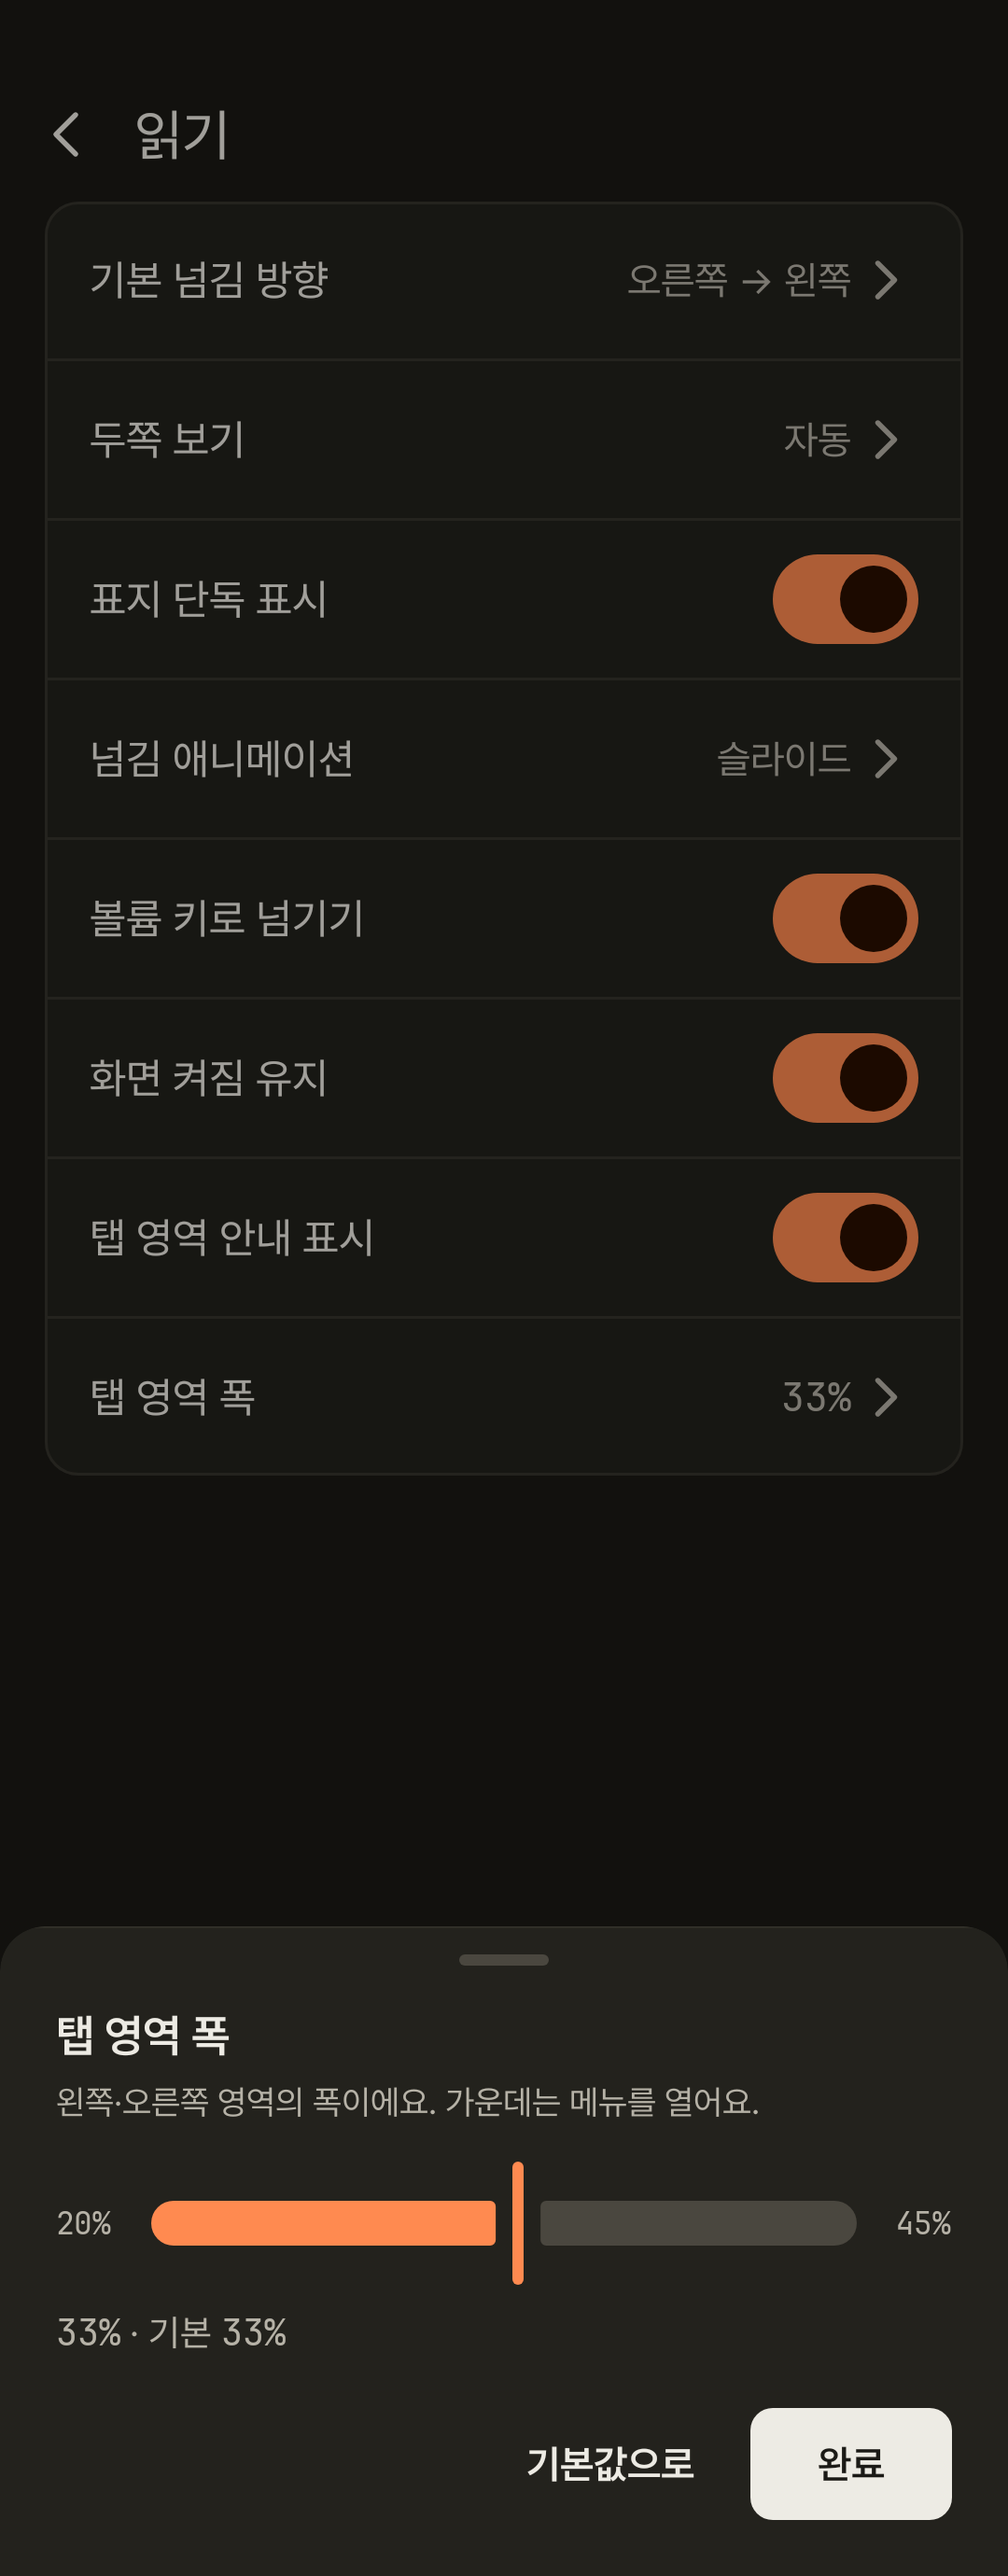
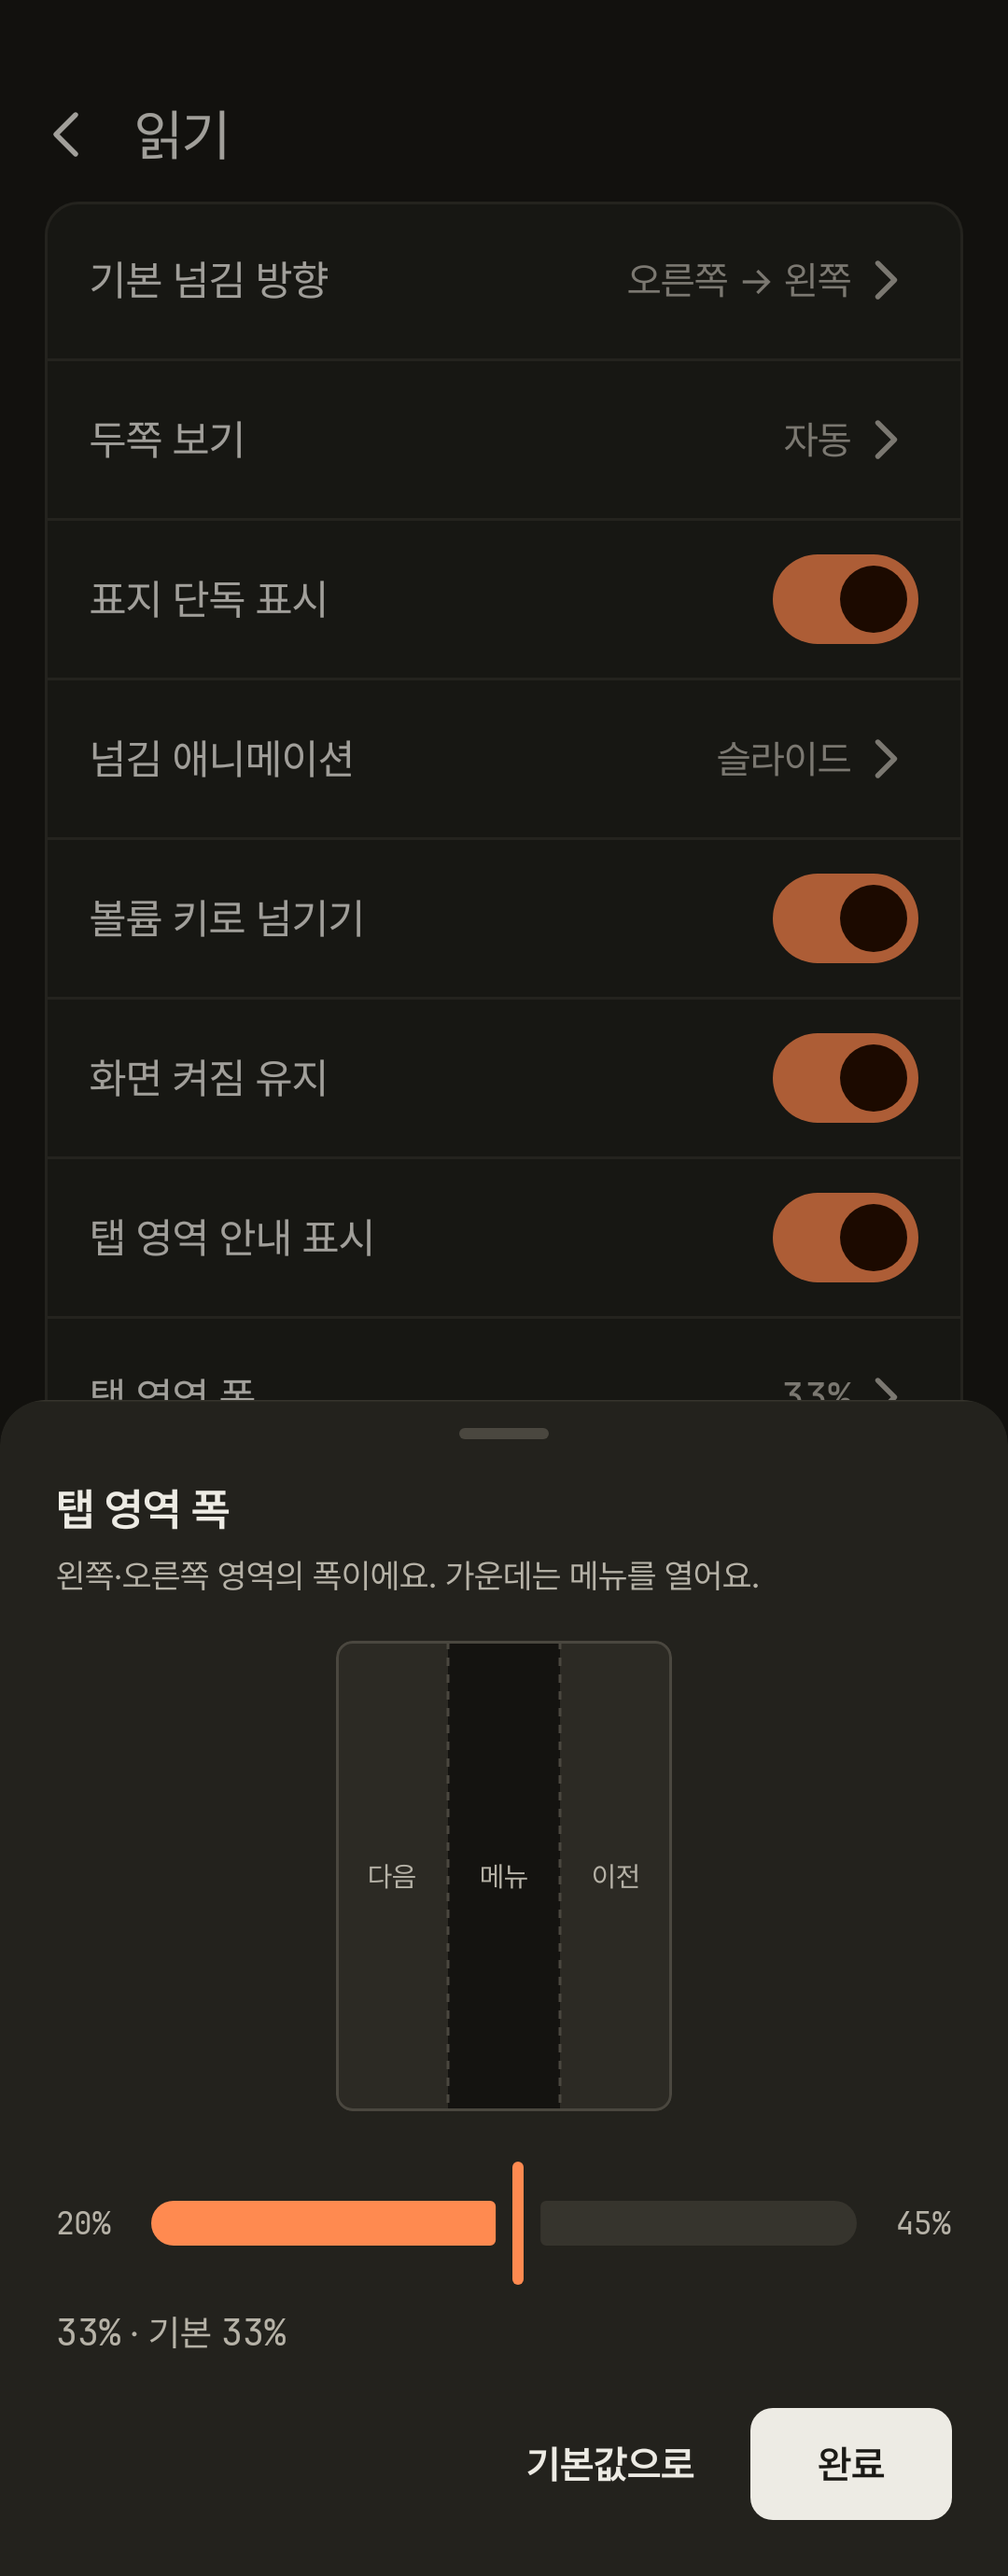
feat(settings): add tap zone preview to settings sheet

diff --git a/app/src/main/java/org/parkjw/apps/pdfbook/TapZoneWidthSheet.kt b/app/src/main/java/org/parkjw/apps/pdfbook/TapZoneWidthSheet.kt
@@ -1,6 +1,7 @@
 package org.parkjw.apps.pdfbook
 
 import androidx.compose.foundation.background
+import androidx.compose.foundation.border
 import androidx.compose.foundation.clickable
 import androidx.compose.foundation.interaction.MutableInteractionSource
 import androidx.compose.foundation.layout.Arrangement
@@ -8,6 +9,7 @@ import androidx.compose.foundation.layout.Box
 import androidx.compose.foundation.layout.Column
 import androidx.compose.foundation.layout.Row
 import androidx.compose.foundation.layout.Spacer
+import androidx.compose.foundation.layout.fillMaxHeight
 import androidx.compose.foundation.layout.fillMaxWidth
 import androidx.compose.foundation.layout.height
 import androidx.compose.foundation.layout.padding
@@ -28,6 +30,8 @@ import androidx.compose.ui.draw.clip
 import androidx.compose.ui.draw.drawBehind
 import androidx.compose.ui.geometry.Offset
 import androidx.compose.ui.graphics.Color
+import androidx.compose.ui.graphics.PathEffect
+import androidx.compose.ui.graphics.luminance
 import androidx.compose.ui.platform.testTag
 import androidx.compose.ui.res.stringResource
 import androidx.compose.ui.text.SpanStyle
@@ -51,6 +55,9 @@ import org.parkjw.apps.pdfbook.ui.theme.pdfBookTextButtonColors
 import org.parkjw.apps.pdfbook.ui.theme.withNumericSpans
 
 const val TAP_ZONE_WIDTH_SHEET_TAG = "tap_zone_width_sheet"
+const val TAP_ZONE_WIDTH_PREVIEW_TAG = "tap_zone_width_preview"
+
+fun tapZonePreviewTag(zone: TapZone): String = "tap_zone_width_preview_" + zone.name
 
 data class TapZoneWidthSheetColors(
     val container: Color,
@@ -84,13 +91,13 @@ object TapZoneWidthSheetDefaults {
         val scheme = MaterialTheme.colorScheme
         val ink = MaterialTheme.extendedColors
         return TapZoneWidthSheetColors(
-            container = scheme.surfaceContainer,
+            container = if (scheme.surface.luminance() < 0.5f) scheme.surfaceContainer else scheme.surfaceContainerLow,
             divider = ink.hairline,
             handle = ink.hairlineStrong,
             title = scheme.onSurface,
             body = scheme.onSurfaceVariant,
             accent = scheme.primary,
-            track = ink.hairlineStrong,
+            track = scheme.surfaceVariant,
             reset = scheme.onSurface,
             doneContainer = ink.inkButton,
             doneContent = ink.onInkButton,
@@ -105,6 +112,7 @@ fun TapZoneWidthSheet(
     onDone: () -> Unit,
     modifier: Modifier = Modifier,
     colors: TapZoneWidthSheetColors = TapZoneWidthSheetDefaults.readerColors,
+    previewDirection: ReadingDirection? = null,
 ) {
     Column(
         modifier = modifier
@@ -143,6 +151,15 @@ fun TapZoneWidthSheet(
             lineHeight = 18.sp,
             modifier = Modifier.padding(top = 4.dp, bottom = 10.dp),
         )
+        if (previewDirection != null) {
+            TapZoneWidthPreview(
+                direction = previewDirection,
+                percent = percent,
+                modifier = Modifier
+                    .align(Alignment.CenterHorizontally)
+                    .padding(top = 4.dp, bottom = 16.dp),
+            )
+        }
         Row(
             verticalAlignment = Alignment.CenterVertically,
             horizontalArrangement = Arrangement.spacedBy(12.dp),
@@ -208,6 +225,63 @@ fun TapZoneWidthSheet(
                 ),
             ) {
                 Text(stringResource(R.string.reader_tap_width_done))
+            }
+        }
+    }
+}
+
+@Composable
+private fun TapZoneWidthPreview(
+    direction: ReadingDirection,
+    percent: Int,
+    modifier: Modifier = Modifier,
+) {
+    val scheme = MaterialTheme.colorScheme
+    val ink = MaterialTheme.extendedColors
+    val shape = RoundedCornerShape(6.dp)
+    val spans = tapZoneSpans(direction, tapZoneSideFraction(percent))
+    Row(
+        modifier
+            .size(width = 120.dp, height = 168.dp)
+            .testTag(TAP_ZONE_WIDTH_PREVIEW_TAG)
+            .clip(shape)
+            .background(scheme.surfaceContainerLowest)
+            .border(1.dp, ink.hairlineStrong, shape),
+    ) {
+        spans.forEachIndexed { index, span ->
+            Box(
+                modifier = Modifier
+                    .weight(span.end - span.start)
+                    .fillMaxHeight()
+                    .testTag(tapZonePreviewTag(span.zone))
+                    .background(
+                        if (span.zone == TapZone.Menu) scheme.surfaceContainerLowest else scheme.surfaceContainerHigh,
+                    )
+                    .drawBehind {
+                        if (index > 0) {
+                            drawLine(
+                                color = ink.hairlineStrong,
+                                start = Offset(0f, 0f),
+                                end = Offset(0f, size.height),
+                                strokeWidth = 1.dp.toPx(),
+                                pathEffect = PathEffect.dashPathEffect(floatArrayOf(3.dp.toPx(), 3.dp.toPx())),
+                            )
+                        }
+                    },
+                contentAlignment = Alignment.Center,
+            ) {
+                Text(
+                    text = stringResource(
+                        when (span.zone) {
+                            TapZone.Previous -> R.string.reader_zone_previous
+                            TapZone.Menu -> R.string.reader_zone_menu
+                            TapZone.Next -> R.string.reader_zone_next
+                        },
+                    ),
+                    color = scheme.onSurfaceVariant,
+                    fontSize = 10.sp,
+                    maxLines = 1,
+                )
             }
         }
     }

diff --git a/app/src/test/java/org/parkjw/apps/pdfbook/TapZoneWidthSheetThemeTest.kt b/app/src/test/java/org/parkjw/apps/pdfbook/TapZoneWidthSheetThemeTest.kt
@@ -13,10 +13,12 @@ import androidx.compose.ui.graphics.toPixelMap
 import androidx.compose.ui.platform.testTag
 import androidx.compose.ui.semantics.SemanticsActions
 import androidx.compose.ui.test.SemanticsMatcher
+import androidx.compose.ui.test.assertCountEquals
 import androidx.compose.ui.test.assertIsDisplayed
 import androidx.compose.ui.test.captureToImage
 import androidx.compose.ui.test.getBoundsInRoot
 import androidx.compose.ui.test.junit4.v2.createComposeRule
+import androidx.compose.ui.test.onAllNodesWithTag
 import androidx.compose.ui.test.onNodeWithTag
 import androidx.compose.ui.test.onNodeWithText
 import androidx.compose.ui.test.performClick
@@ -38,7 +40,7 @@ import org.parkjw.apps.pdfbook.ui.theme.DarkPrimary
 import org.parkjw.apps.pdfbook.ui.theme.DarkSurfaceContainer
 import org.parkjw.apps.pdfbook.ui.theme.LightInkButton
 import org.parkjw.apps.pdfbook.ui.theme.LightPrimary
-import org.parkjw.apps.pdfbook.ui.theme.LightSurfaceContainer
+import org.parkjw.apps.pdfbook.ui.theme.LightSurfaceContainerLow
 import org.parkjw.apps.pdfbook.ui.theme.PdfBookTheme
 import org.parkjw.apps.pdfbook.ui.theme.ReaderOnOverlay
 import org.parkjw.apps.pdfbook.ui.theme.ReaderOverlay
@@ -58,13 +60,54 @@ class TapZoneWidthSheetThemeTest {
     @Test
     fun tw1SettingsSheetFollowsLightTheme() {
         setSettings(ThemeMode.Light)
-        assertSheet(container = LightSurfaceContainer, done = LightInkButton, accent = LightPrimary)
+        assertSheet(container = LightSurfaceContainerLow, done = LightInkButton, accent = LightPrimary)
     }
 
     @Test
     fun tw2SettingsSheetFollowsDarkTheme() {
         setSettings(ThemeMode.Dark)
         assertSheet(container = DarkSurfaceContainer, done = DarkInkButton, accent = DarkPrimary)
+    }
+
+    @Test
+    fun previewZonesFollowSliderAndDefaultDirection() {
+        var settings by mutableStateOf(
+            AppSettings(tapZoneSidePercent = DEFAULT_TAP_ZONE_SIDE_PERCENT, defaultReadingDirection = ReadingDirection.RTL),
+        )
+        composeRule.setContent {
+            PdfBookTheme(themeMode = ThemeMode.Light) {
+                SettingsScreen(
+                    settings = settings,
+                    onSettingsChange = { settings = it(settings) },
+                    versionName = "0.3.0",
+                    initialSubScreen = SettingsSubScreen.Reading,
+                    initiallyShowTapWidthSheet = true,
+                )
+            }
+        }
+        val page = composeRule.onNodeWithTag(TAP_ZONE_WIDTH_PREVIEW_TAG, useUnmergedTree = true).getBoundsInRoot()
+        assertEquals(120f, (page.right - page.left).value, 0.5f)
+        assertEquals(168f, (page.bottom - page.top).value, 0.5f)
+        val next = composeRule.onNodeWithTag(tapZonePreviewTag(TapZone.Next), useUnmergedTree = true).getBoundsInRoot()
+        val previous = composeRule.onNodeWithTag(tapZonePreviewTag(TapZone.Previous), useUnmergedTree = true).getBoundsInRoot()
+        assertTrue(next.left < previous.left)
+        assertEquals(40f, (next.right - next.left).value, 1f)
+        composeRule.onNode(slider).performSemanticsAction(SemanticsActions.SetProgress) { it(45f) }
+        composeRule.waitForIdle()
+        val wider = composeRule.onNodeWithTag(tapZonePreviewTag(TapZone.Next), useUnmergedTree = true).getBoundsInRoot()
+        assertEquals(54f, (wider.right - wider.left).value, 1f)
+        settings = settings.copy(defaultReadingDirection = ReadingDirection.LTR)
+        composeRule.waitForIdle()
+        val ltrNext = composeRule.onNodeWithTag(tapZonePreviewTag(TapZone.Next), useUnmergedTree = true).getBoundsInRoot()
+        val ltrPrevious = composeRule.onNodeWithTag(tapZonePreviewTag(TapZone.Previous), useUnmergedTree = true).getBoundsInRoot()
+        assertTrue(ltrNext.left > ltrPrevious.left)
+    }
+
+    @Test
+    fun readerSheetHasNoPreview() {
+        setReader(ThemeMode.Light, percent = DEFAULT_TAP_ZONE_SIDE_PERCENT)
+        composeRule.onNodeWithText("폭 조절").performClick()
+        composeRule.onAllNodesWithTag(TAP_ZONE_WIDTH_PREVIEW_TAG, useUnmergedTree = true).assertCountEquals(0)
     }
 
     @Test

diff --git a/app/src/test/java/org/parkjw/apps/pdfbook/screenshot/MainScreenshotsTest.kt b/app/src/test/java/org/parkjw/apps/pdfbook/screenshot/MainScreenshotsTest.kt
@@ -330,6 +330,16 @@ class MainScreenshotsTest {
 
     @Test
     @Config(qualifiers = FOLDED_QUALIFIERS)
+    fun settingsTapWidthSheetFortyLightFolded() = captureSettings(
+        dark = false,
+        file = "settings-tapwidth-sheet-40-light-folded.png",
+        initialSubScreen = SettingsSubScreen.Reading,
+        initiallyShowTapWidthSheet = true,
+        tapZoneSidePercent = 40,
+    )
+
+    @Test
+    @Config(qualifiers = FOLDED_QUALIFIERS)
     fun settingsOpenSourceLightFolded() = captureSettings(
         dark = false,
         file = "settings-open-source-light-folded.png",
@@ -805,11 +815,13 @@ class MainScreenshotsTest {
         initialSubScreen: SettingsSubScreen = SettingsSubScreen.Main,
         initiallyShowStartChoice: Boolean = false,
         initiallyShowTapWidthSheet: Boolean = false,
+        tapZoneSidePercent: Int = DEFAULT_TAP_ZONE_SIDE_PERCENT,
     ) {
         capture(file, dark) {
             SettingsScreen(
                 settings = sampleSettings().copy(
                     themeMode = if (dark) ThemeMode.Dark else ThemeMode.Light,
+                    tapZoneSidePercent = tapZoneSidePercent,
                 ),
                 onSettingsChange = {},
                 versionName = "0.3.0",

diff --git a/app/src/main/java/org/parkjw/apps/pdfbook/settings/SettingsScreen.kt b/app/src/main/java/org/parkjw/apps/pdfbook/settings/SettingsScreen.kt
@@ -503,6 +503,7 @@ private fun ReadingSettingsScreen(
                 onPercentChange = { value -> onSettingsChange { it.copy(tapZoneSidePercent = value) } },
                 onDone = { showTapWidthSheet = false },
                 colors = TapZoneWidthSheetDefaults.appColors(),
+                previewDirection = settings.defaultReadingDirection,
             )
         }
     }
